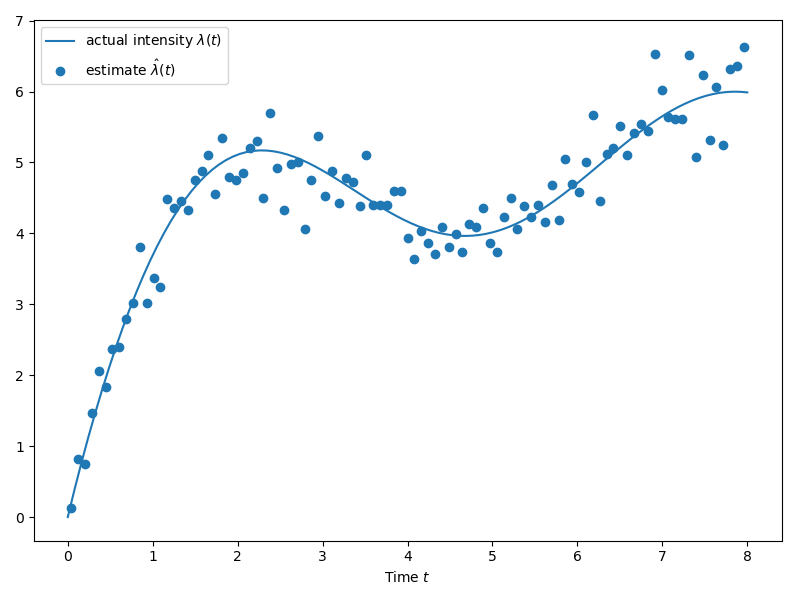
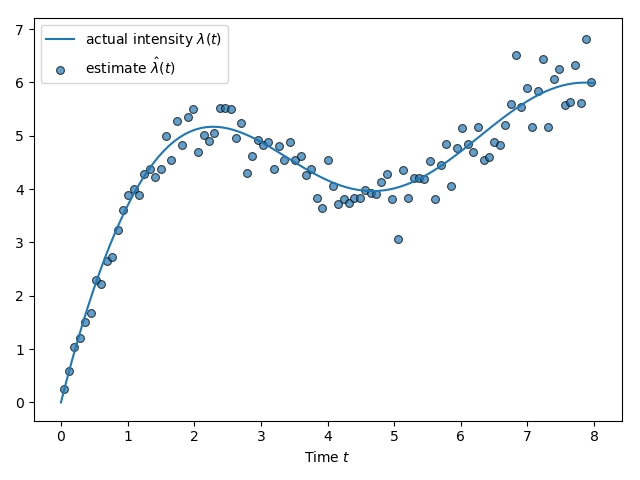
Working N-dim processes in Python library

Changed region(s): [[0.0, 0.0312, 1.0, 0.9688], [0.7812, 0.0938, 0.8125, 0.125]]

diff --git a/pylib/src/lib.rs b/pylib/src/lib.rs
@@ -8,11 +8,16 @@ extern crate ndarray;
 use pointprocesses::*;
 use std::thread;
 use pyo3::prelude::*;
-use numpy::{PyArray, PyArrayModule};
+use numpy::*;
+use ndarray::prelude::*;
 
-/// The main module, written in Rust.
+/// A set of time-dependent point processes.
 #[pymodinit]
-fn pointprocesses(_py: Python, m: &PyModule) -> PyResult<()> {
+fn timedependent(py: Python, m: &PyModule) -> PyResult<()> {
+    // !!!!!!!!!!!!!!!!!!!!!!!!!!!!!!
+    // You **must** write this sentence for PyArray type checker working correctly
+    // !!!!!!!!!!!!!!!!!!!!!!!!!!!!!!
+    let _np = PyArrayModule::import(py)?;
 
     #[pyfn(m, "poisson_process")]
     /// Simulate a homogeneous, constant-intensity Poisson process.
@@ -42,6 +47,7 @@ fn pointprocesses(_py: Python, m: &PyModule) -> PyResult<()> {
         py: Python, tmax: f64, lambda: PyObject,
         max_lambda: f64) -> PyResult<PyArray<f64>>
     {
+        let ref np = PyArrayModule::import(py).unwrap();
         let compute = |x: f64| {
             let args = (x,);
             let obj: PyObject = lambda.call1(py, args).unwrap();
@@ -70,8 +76,7 @@ fn pointprocesses(_py: Python, m: &PyModule) -> PyResult<()> {
         });
 
         let elements = handle.join().unwrap();
-        let np = PyArrayModule::import(py).unwrap();
-        Ok(PyArray::from_ndarray(py, &np, elements))
+        Ok(elements.into_pyarray(py, np))
     }
 
     Ok(())
@@ -79,23 +84,74 @@ fn pointprocesses(_py: Python, m: &PyModule) -> PyResult<()> {
 
 /// Point processes in n-dimensional space
 #[pymodinit]
-fn generalized(_py: Python, m: &PyModule) -> PyResult<()> {
+fn generalized(py: Python, m: &PyModule) -> PyResult<()> {
+    // !!!!!!!!!!!!!!!!!!!!!!!!!!!!!!
+    // You **must** write this sentence for PyArray type checker working correctly
+    // !!!!!!!!!!!!!!!!!!!!!!!!!!!!!!
+    let _np = PyArrayModule::import(py)?;
 
     #[pyfn(m, "poisson_process")]
     fn poisson_process_py(py: Python, lambda: f64, close: &PyArray<f64>, far: &PyArray<f64>) -> PyResult<PyArray<f64>> {
         assert_eq!(close.dims(), far.dims());
-        let close = close.as_array().unwrap()
-            .to_owned()
-            .into_dimensionality::<ndarray::Ix1>()
-            .unwrap();
-        let far = far.as_array().unwrap()
-            .to_owned()
-            .into_dimensionality::<ndarray::Ix1>()
-            .unwrap();
+        let ref np = PyArrayModule::import(py).unwrap();
+        let close = close.as_array().into_pyresult("close must be a f64 array")?;
+        let close = close.to_owned()
+           .into_dimensionality::<ndarray::Ix1>()
+           .unwrap();
+        let far = far.as_array().into_pyresult("far must be a f64 array")?;
+        let far = far.to_owned()
+           .into_dimensionality::<ndarray::Ix1>()
+           .unwrap();
         let ref domain = generalized::Rectangle::new(close, far);
-        generalized::poisson_process(lambda, domain);
-        let ref np = PyArrayModule::import(py)?;
-        Ok(PyArray::from_ndarray(py, np, generalized::poisson_process(lambda, domain)))
+        let events = generalized::poisson_process(lambda, domain);
+        Ok(events.into_pyarray(py, np))
+    }
+
+    #[pyfn(m, "variable_poisson")]
+    fn variable_poisson_py(
+        py: Python, lambda: PyObject,
+        max_lambda: f64, close: &PyArray<f64>, far: &PyArray<f64>) -> PyResult<PyArray<f64>>
+    {
+        let ref np = PyArrayModule::import(py).unwrap();
+        let close = close.as_array().into_pyresult("close must be a f64 array")?;
+        let close = close.to_owned()
+           .into_dimensionality::<ndarray::Ix1>()
+           .unwrap();
+        let far = far.as_array().into_pyresult("far must be a f64 array")?;
+        let far = far.to_owned()
+           .into_dimensionality::<ndarray::Ix1>()
+           .unwrap();
+        let domain = generalized::Rectangle::new(close, far);
+
+        let compute = |x: PyArray<f64>| {
+            let args = (x,);
+            let obj: PyObject = lambda.call1(py, args).unwrap();
+            let res: f64 = obj.extract::<f64>(py).unwrap();
+            res
+        };
+
+        let (snder, recver) = std::sync::mpsc::sync_channel::<Array1<f64>>(1);
+        let (backsnder, backrcver) = std::sync::mpsc::sync_channel::<f64>(1);
+        let backrcver = std::sync::Arc::from(std::sync::Mutex::from(backrcver));
+        let callback = move |x: &Array1<f64>| {
+            let backrcver = backrcver.lock().unwrap();
+            snder.send(x.clone()).unwrap();
+            let message: Result<f64,_> = backrcver.recv();
+            message.unwrap()
+        };
+
+        let handle = thread::spawn(move || {
+            generalized::variable_poisson(&callback, max_lambda, &domain)
+        });
+
+
+        recver.iter().for_each(|x| {
+            let intens = compute(x.into_pyarray(py, np));
+            backsnder.send(intens).unwrap();
+        });
+
+        let elements = handle.join().unwrap();
+        Ok(elements.into_pyarray(py, np))
     }
 
     Ok(())

diff --git a/pylib/examples/generalized.py b/pylib/examples/generalized.py
@@ -1,0 +1,59 @@
+import numpy as np
+import matplotlib.pyplot as plt
+import pointprocesses as pp
+
+close = np.array([0., 0.])
+far = np.array([1., 1.])
+
+print("2D Poisson process")
+lbda = 100.0
+events = pp.generalized.poisson_process(lbda, close, far)
+print(events)
+
+scatter_opts = {
+    "s": 15.0,
+    "linewidths": 0.7,
+    "edgecolors": 'k'
+}
+
+fig, (ax1, ax2) = plt.subplots(ncols=2, figsize=(10,5))
+ax1.scatter(events[:,0], events[:,1], **scatter_opts)
+ax1.set_title(r"2D Poisson process, $\lambda=%f$" % lbda)
+print("----------------")
+
+
+print("2D variable Poisson process")
+close = np.array([-1., -1.])
+far = np.array([1., 1.])
+def func(x, y):
+    dist2 = x**2 + y**2
+    return 160*(1-np.exp(-2*(np.power(dist2, 1.5))))
+def intensity(a: np.ndarray):
+    return func(a[0], a[1])
+max_lbda = 160.0
+events = pp.generalized.variable_poisson(intensity, max_lbda, close, far)
+print(events)
+scatter_opts = {
+    "s": 15.0,
+    "linewidths": 0.7,
+    "edgecolors": 'k'
+}
+
+xarr = np.linspace(-1, 1, 100)
+yarr = xarr.copy()
+X, Y = np.meshgrid(xarr, yarr)
+Z1 = func(X, Y)
+extent = [-1, 1, -1, 1]
+
+cmap_name = "bone"
+im = ax2.imshow(Z1, cmap=plt.get_cmap(cmap_name), extent=extent)
+ax2.scatter(events[:,0], events[:,1], **scatter_opts)
+ax2.set_title(r"2D Poisson process, variable intensity $\lambda(x,y)$")
+fig.subplots_adjust(right=0.8)
+cbar_ax = fig.add_axes([0.85, 0.15, 0.05, 0.7])
+cbar = fig.colorbar(im, cax=cbar_ax)
+ax2.set_xlim((-1,1))
+ax2.set_ylim((-1,1))
+fig.savefig('2d_poisson.png')
+plt.show()
+print("----------------")

diff --git a/pylib/examples/poisson-intensity-estimator.py b/pylib/examples/poisson-intensity-estimator.py
@@ -1,7 +1,6 @@
 import numpy as np
 import matplotlib.pyplot as plt
-import pointprocesses.pointprocesses as pp
-
+import pointprocesses as pp
 
 def count_events_by_(events, partition: list) -> list:
     m = len(partition)
@@ -45,9 +44,15 @@ estimates = intensity_estimator(processes, partition)
 print("Partition:", partition)
 print("Intensity estimates:\n", estimates)
 
-plt.figure(figsize=(8,6))
+scatter_ops = {
+    "s": 32.0,
+    "linewidths": 0.8,
+    "edgecolors": "k",
+    "alpha": 0.7
+}
+
 plt.plot(partition, intens(partition), label=r"actual intensity $\lambda(t)$")
-plt.scatter(0.5*(partition[1:]+partition[:-1]), estimates, label=r"estimate $\hat{\lambda}(t)$")
+plt.scatter(0.5*(partition[1:]+partition[:-1]), estimates, label=r"estimate $\hat{\lambda}(t)$", **scatter_ops)
 plt.xlabel("Time $t$")
 plt.legend()
 plt.tight_layout()

diff --git a/pylib/setup.py b/pylib/setup.py
@@ -26,15 +26,15 @@ setup(
     author="ManifoldFR",
     rust_extensions=[
         RustExtension(
-            'pointprocesses.pointprocesses',
+            'pointprocesses.timedependent',
             'Cargo.toml',
-            binding=Binding.PyO3,
-            strip=Strip.Debug),
+            strip=Strip.No,
+            native=True),
         RustExtension(
             'pointprocesses.generalized',
             'Cargo.toml',
-            binding=Binding.PyO3,
-            strip=Strip.Debug),
+            strip=Strip.No,
+            native=True),
         ],
     packages=['pointprocesses'],
     install_requires=install_requires,

diff --git a/pylib/pointprocesses/__init__.py b/pylib/pointprocesses/__init__.py
@@ -1,5 +1,7 @@
 """
-The Python package.
+Algorithms for simulating point processes, stochastic processes used in statistical models.
+
+Implemented in the Rust programming language.
 """
-import pointprocesses.generalized
-from .pointprocesses import *
+from .timedependent import *
+from . import generalized

diff --git a/pylib/README.md b/pylib/README.md
@@ -2,6 +2,8 @@
 
 ![Yes, this is matplotlib](examples/estimate.png)
 
+![](examples/2d_poisson.png)
+
 High level API for `pointprocesses` as a Python library.
 
 This is a work in progress, much of the core library's functionality hasn't been ported yet and panics are not handled well.
@@ -21,4 +23,4 @@ import numpy as np
 import pointprocesses as pp
 ```
 
-There's a working example in the `examples/` directory. If there's a problem, report it! 😄
+There are working examples in the `pylib/examples/` directory.

diff --git a/README.md b/README.md
@@ -64,4 +64,6 @@ The examples show how to use the API.
 
 An experimental Python package built as an extension is available inside the `pylib/` directory.
 
+Accepting PRs! 😄
+
 [(1)]: http://eprints.lse.ac.uk/51370/1/Dassios_exact_simulation_hawkes.pdf "Exact simulation of Hawkes process with exponentially decaying intensity"
